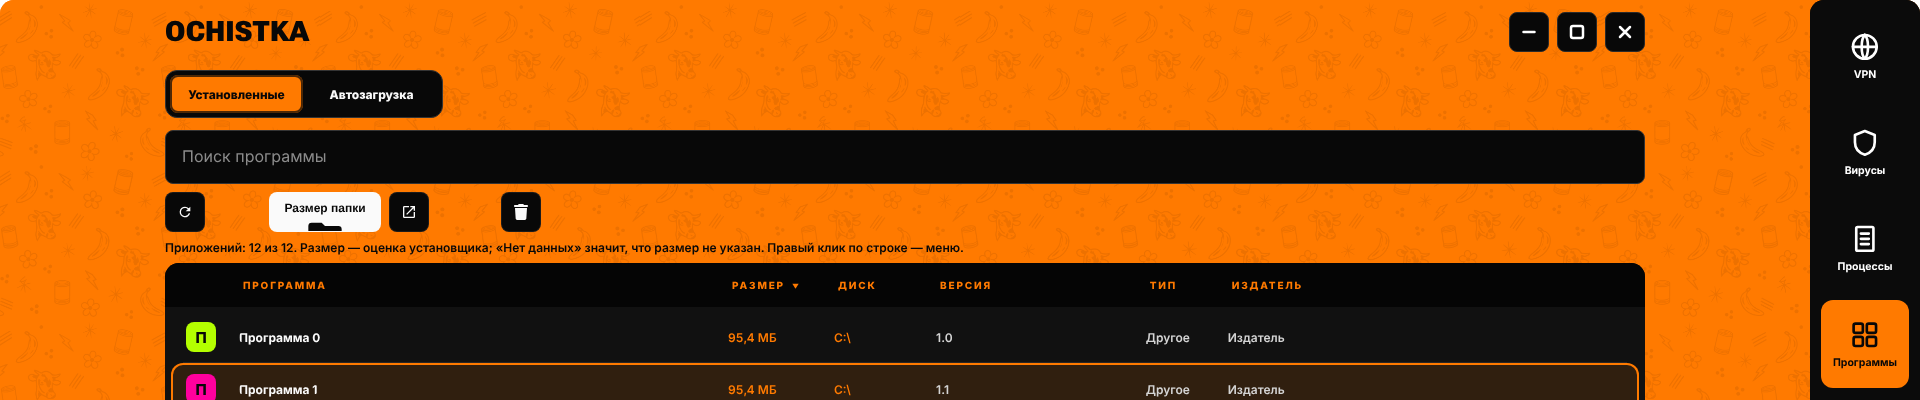
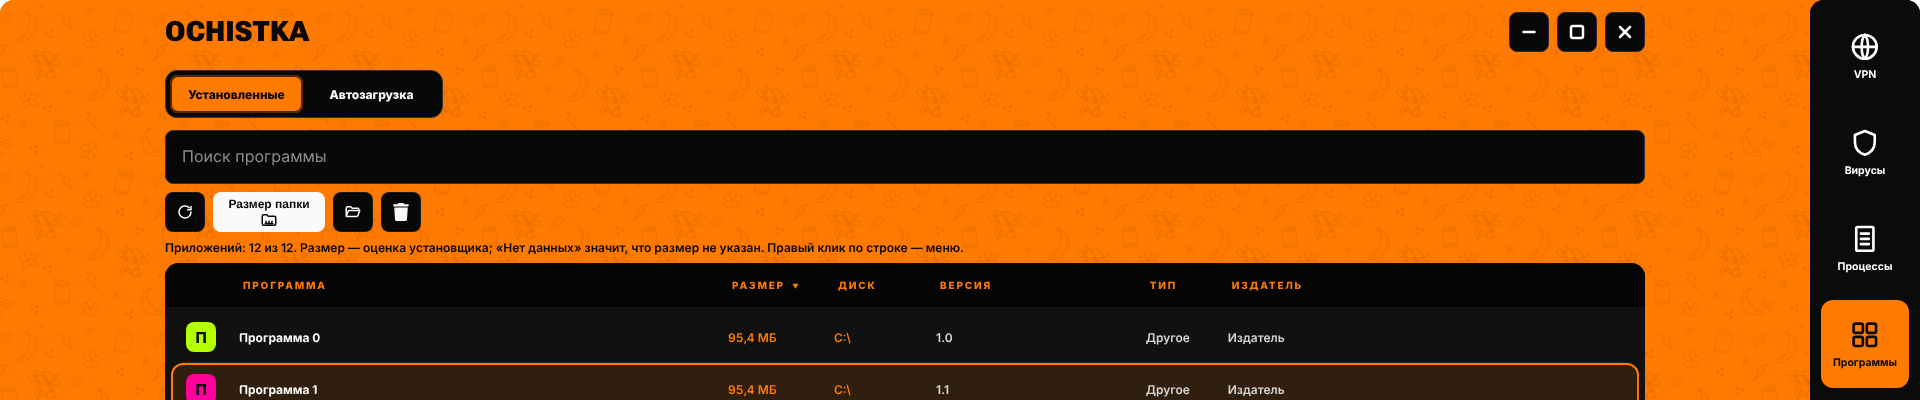
fix(programs): компактная группа кнопок, раздвижение соседей, новые иконки
Claude-Session: https://claude.ai/code/session_01CrL2vkkucqzyVPL3EYmh66

Changed region(s): [[0.0938, 0.48, 0.2812, 0.6]]

diff --git a/apps/desktop/src/components/ProgramsPage.svelte b/apps/desktop/src/components/ProgramsPage.svelte
@@ -315,11 +315,11 @@
 
   /** Контуры иконок четырёх кнопок (Material-стиль; корзина — из smart-emu-83, MIT). */
   const ICONS = {
-    refresh:
-      'M17.65 6.35A7.96 7.96 0 0 0 12 4a8 8 0 1 0 7.73 10h-2.08A6 6 0 1 1 12 6c1.66 0 3.14.69 4.22 1.78L13 11h7V4l-2.35 2.35z',
-    folder: 'M10 4H4a2 2 0 0 0-2 2v12a2 2 0 0 0 2 2h16a2 2 0 0 0 2-2V8a2 2 0 0 0-2-2h-8l-2-2z',
+    refresh: 'M20 12a8 8 0 1 1-2.5-5.8M20 4.5V9h-4.5',
+    folder:
+      'M3 7a2 2 0 0 1 2-2h4l2 2h8a2 2 0 0 1 2 2v8a2 2 0 0 1-2 2H5a2 2 0 0 1-2-2zM8 13.5v3M12 13.5v3M16 13.5v3M7 16.5h10',
     explorer:
-      'M19 19H5V5h7V3H5a2 2 0 0 0-2 2v14a2 2 0 0 0 2 2h14a2 2 0 0 0 2-2v-7h-2v7zM14 3v2h3.59l-9.83 9.83 1.41 1.41L19 6.41V10h2V3h-7z',
+      'M3 17.5V7a2 2 0 0 1 2-2h4l2 2h7a2 2 0 0 1 2 2v1.5M3 17.5l2.4-6.2a2 2 0 0 1 1.9-1.3H21l-2.4 6.7a2 2 0 0 1-1.9 1.3H5a2 2 0 0 1-2-.5z',
     trash:
       'M135.2 17.7L128 32H32C14.3 32 0 46.3 0 64S14.3 96 32 96H416c17.7 0 32-14.3 32-32s-14.3-32-32-32H320l-7.2-14.3C307.4 6.8 296.3 0 284.2 0H163.8c-12.1 0-23.2 6.8-28.6 17.7zM416 128H32L53.2 467c1.6 25.3 22.6 45 47.9 45H346.9c25.3 0 46.3-19.7 47.9-45L416 128z',
   } as const;
@@ -369,16 +369,16 @@
       <ExpandButton
         icon={ICONS.refresh}
         label="Обновить"
-        name="Обновить"
         width={96}
+        name="Обновить"
         onclick={() => void loadInstalled()}
         disabled={loading}
       />
       <ExpandButton
         icon={ICONS.folder}
         label="Размер папки"
-        name="Размер папки"
         width={112}
+        name="Размер папки"
         onclick={() => selected && void measure(selected)}
         disabled={!selected || measuring || selectedBlock !== null}
         title={!selected ? NONE_SELECTED : (selectedBlock ?? 'Посчитать размер папки')}
@@ -387,8 +387,8 @@
       <ExpandButton
         icon={ICONS.explorer}
         label="Проводник"
-        name="Показать в Проводнике"
         width={104}
+        name="Показать в Проводнике"
         disabled={!selected || !selected.installLocation}
         title={!selected
           ? NONE_SELECTED
@@ -403,9 +403,10 @@
       <ExpandButton
         icon={ICONS.trash}
         viewBox="0 0 448 512"
+        filled
         label="Удалить"
-        name="Удалить"
         width={88}
+        name="Удалить"
         danger
         disabled={uninstallBlock(selected) !== null}
         title={uninstallBlock(selected) ?? 'Запустить штатное удаление программы'}

diff --git a/apps/desktop/src/components/ExpandButton.svelte b/apps/desktop/src/components/ExpandButton.svelte
@@ -17,6 +17,8 @@
     name: string;
     /** Ширина раскрытой кнопки, px. */
     width?: number;
+    /** Заливка вместо контура (корзина Uiverse). */
+    filled?: boolean;
     danger?: boolean;
   };
 
@@ -26,31 +28,33 @@
     label,
     name,
     width = 124,
+    filled = false,
     danger = false,
     ...rest
   }: Props = $props();
 </script>
 
-<span class="slot" style:--w="{width}px">
-  <button type="button" class="expand" class:danger aria-label={name} {...rest}>
-    <svg {viewBox} class="icon" aria-hidden="true" focusable="false"><path d={icon}></path></svg>
-    <span class="label" aria-hidden="true">{label}</span>
-  </button>
-</span>
+<button
+  type="button"
+  class="expand"
+  class:danger
+  class:filled
+  style:--w="{width}px"
+  aria-label={name}
+  {...rest}
+>
+  <svg {viewBox} class="icon" aria-hidden="true" focusable="false"><path d={icon}></path></svg>
+  <span class="label" aria-hidden="true">{label}</span>
+</button>
 
 <style>
-  .slot {
-    flex: none;
-    width: var(--w);
-    height: 40px;
-  }
-
   .expand {
     position: relative;
     display: flex;
     align-items: center;
     justify-content: center;
     box-sizing: border-box;
+    flex: none;
     width: 40px;
     height: 40px;
     padding: 0;
@@ -67,28 +71,35 @@
   }
 
   .icon {
-    width: 16px;
-    height: 16px;
+    width: 18px;
+    height: 18px;
     flex: none;
-    transition:
-      width 0.3s,
-      height 0.3s,
-      transform 0.3s;
+    transition: transform 0.3s;
   }
 
   .icon path {
+    fill: none;
+    stroke: currentColor;
+    stroke-width: 2;
+    stroke-linecap: round;
+    stroke-linejoin: round;
+  }
+
+  .filled .icon path {
     fill: currentColor;
+    stroke: none;
   }
 
   .label {
     position: absolute;
-    top: -16px;
+    top: 4px;
     left: 0;
     right: 0;
     text-align: center;
     white-space: nowrap;
     font-size: 2px;
     font-weight: 600;
+    transform: translateY(-8px);
     line-height: 1.2;
     opacity: 0;
     transition:
@@ -114,16 +125,14 @@
 
   .expand:hover:not(:disabled) .icon,
   .expand:focus-visible:not(:disabled) .icon {
-    width: 40px;
-    height: 40px;
-    transform: translateY(60%);
+    transform: translateY(8px);
   }
 
   .expand:hover:not(:disabled) .label,
   .expand:focus-visible:not(:disabled) .label {
     font-size: var(--text-small);
     opacity: 1;
-    transform: translateY(24px);
+    transform: translateY(0);
   }
 
   .expand:focus-visible {
